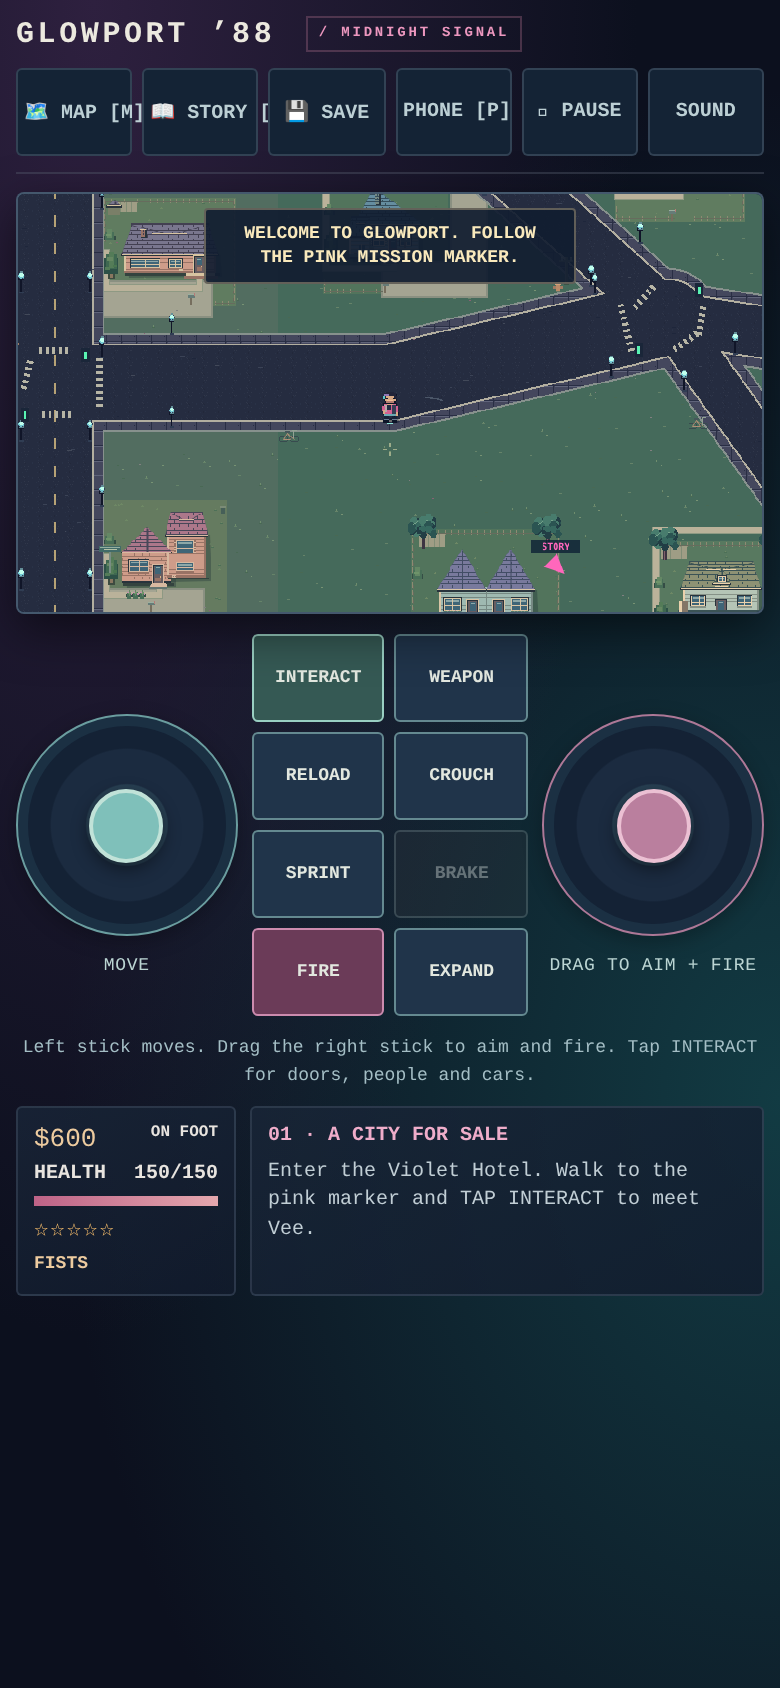
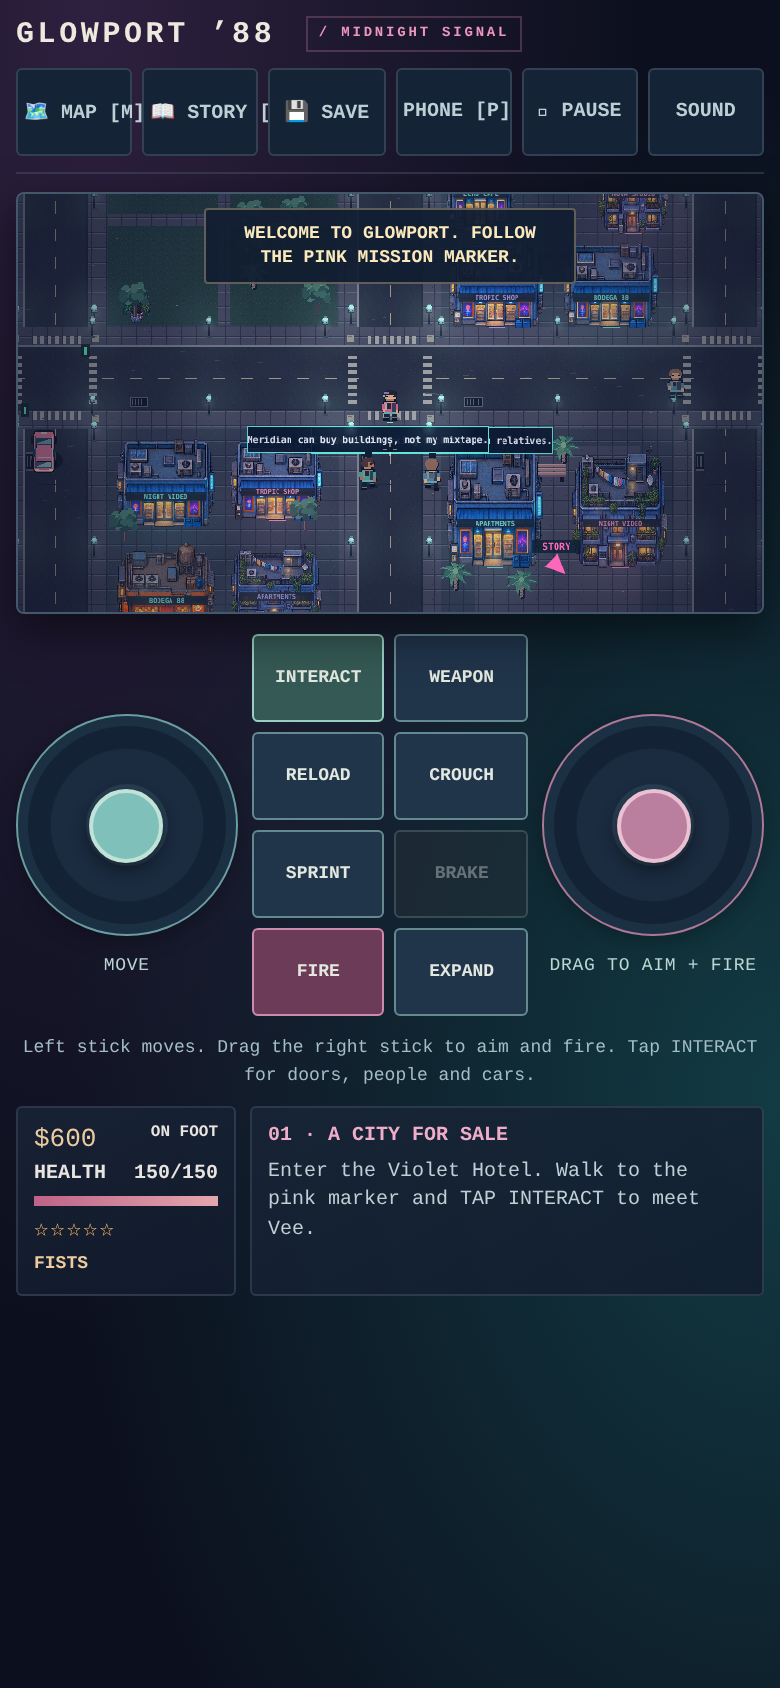
Record verified original-city browser deployment and final evidence

Changed region(s): [[0.0308, 0.0924, 0.9846, 0.3697]]

diff --git a/RESTORATION_REPORT.md b/RESTORATION_REPORT.md
@@ -32,9 +32,9 @@ These galleries let reviewers select the historical original and each subsequent
 
 | Reference | Original screenshot | Restored screenshot |
 | --- | --- | --- |
-| Downtown neon | [Original](artifacts/restoration-original-downtown-neon-night.png) | [Lighting-refined](artifacts/restoration-stage-d-downtown-neon-night.png) |
-| East Diner | [Original](artifacts/restoration-original-diner-day.png) | [Restored](artifacts/restoration-stage-d-diner-day.png) |
-| Sunset residential block | [Original night](artifacts/restoration-infill-original-west-3-7-night.png) | [Limited additions at night](artifacts/restoration-infill-stage-d-west-3-7-night.png) |
+| Downtown neon | [Original](artifacts/restoration-original-downtown-neon-night.png) | [Verified final](artifacts/restoration-final-downtown-neon-night.png) |
+| East Diner | [Original](artifacts/restoration-original-diner-day.png) | [Verified final](artifacts/restoration-final-diner-day.png) |
+| Sunset residential block | [Original night](artifacts/restoration-infill-original-west-3-7-night.png) | [Verified limited additions](artifacts/restoration-infill-final-west-3-7-night.png) |
 | Superseded suburban result | [0.6.0 Crescent Heights](artifacts/rebuild-after-crescent-day.png) | [Recovered original Crescent Heights](artifacts/restoration-stage-d-crescent-day.png) |
 
 ## Residential designs
@@ -96,6 +96,12 @@ Physical iPhone/Android, Safari and Firefox checks remain unexecuted. A continuo
 
 ## Playable delivery
 
-**Public deployment verification pending.** The intended updated demo URL is [Glowport ’88 · original city](https://atlasnoah.github.io/Glowport88/?v=0.6.1-original-city). Until verification is recorded, that address must not be described as the verified corrected release.
+**Published and verified:** [Play Glowport ’88 · restored original city](https://atlasnoah.github.io/Glowport88/?v=0.6.1-original-city). Use **Start / Continue** to resume existing progress.
 
-Final delivery will record the pushed source commit, Pages commit, exact standalone SHA-256 and public mobile playback results here. Public verification uses normal certificate-verified HTTPS and exact-byte equality with the tested standalone, then isolated browser playback of those deployed bytes. The source branch is `codex/restore-original-city`; `main` remains unchanged.
+- Tested release source: [`4bc54f4f79fc49318985fde045e49d9e73153e71`](https://github.com/atlasnoah/Glowport88/commit/4bc54f4f79fc49318985fde045e49d9e73153e71), pushed on `codex/restore-original-city`; `main` remains unchanged. Subsequent report/evidence commits do not change the game payload.
+- Pages deployment: [`c8383a38f8f2b86117003022b71823bd6810c3d3`](https://github.com/atlasnoah/Glowport88/commit/c8383a38f8f2b86117003022b71823bd6810c3d3). The live `build.json` identifies 0.6.1, original commit `c9b4af6`, 808 buildings, 35 roads, sixteen residential facades, schema 6 and map 3.
[1 lines of base64/hex data omitted]
+- **PASS** `node tests/public-demo.cjs`: normal certificate-verified HTTPS download matched the tested standalone byte for byte. Playback of those exact downloaded bytes in isolated 390×844 mobile Chromium passed Start, touch movement, phone/jobs, map, story entrance guidance and direct East Diner mission acceptance. Content remains 40 main / 20 side / 32 encounter types, ten vehicle models and twelve placed cassettes; no script errors.
+- **PASS** both [public city comparisons](https://atlasnoah.github.io/Glowport88/restoration/restoration-visual-comparison.html) and [public residential comparisons](https://atlasnoah.github.io/Glowport88/restoration/restoration-infill-comparison.html), plus six representative original/final PNG downloads, match tested local hashes. Local gallery browsers verified 184 PNG references, eighteen stage selections and 58 scene jumps across desktop/phone layouts, with no overflow or browser errors.
+
+The separate direct external Chromium probe is **environment-blocked** by `ERR_CERT_AUTHORITY_INVALID` in the cloud proxy trust setup. TLS checks were not disabled. The verified-HTTPS-download/exact-byte-playback checks above passed; direct public-origin Chromium navigation and physical handheld testing are not claimed. Evidence is in `artifacts/public-demo-results.json`, `restoration-public-build.json`, `restoration-public-gallery-results.json` and `restoration-public-direct-browser.json`.

diff --git a/TEST_RESULTS.md b/TEST_RESULTS.md
@@ -13,7 +13,7 @@ The current release selectively restores the actual `c9b4af6` Living City enviro
 | Original atmosphere regression | Twelve clear/rain/mist day/dusk/night RGBA scene comparisons; full night exactly original, daylight scalar changes bounded in the test fixture, host wash bounds and visible cyan/pink sources checked |
 | Historical visual restoration | Stage A: 21/21 static scenes exactly match original RGBA pixels; original world arrays, character/vehicle probe and four interiors exact |
 | Controlled refinement visuals | Stage B/C/D retain original geometry and sprite/interior hashes. Eight matched block scenes show no raw-terrain differences outside selected facade envelopes. Stage D preserves all four city and four block full-night scenes from Stage C. No browser errors; terrain ≤24MiB |
-| Gallery browser checks | Desktop 1440px/mobile 390px controls, image references and no-overflow checks pass without browser errors |
+| Gallery browser checks | Both galleries at desktop 1440px/mobile 390px: 184 PNG references, eighteen stage selections, 58 scene jumps, immutable originals, cross-links and no overflow/browser errors |
 
 Stage A/B/C/D screenshots and JSON evidence are in `artifacts/restoration-*`. The visual galleries use the same 800×450 camera, coordinates, weather, hour and frozen clock. Static comparisons intentionally exclude moving actors/UI; actual host screenshots and original sprite probes are captured separately.
 
@@ -22,6 +22,8 @@ Stage A/B/C/D screenshots and JSON evidence are in `artifacts/restoration-*`. Th
 **PASS:** the complete restored build's `npm test` exited 0. This includes syntax/content and mission/police/progression/save models; three accelerated campaign choice sweeps and 1,013 objectives; tiled-terrain seams; desktop gameplay; GPS; isolated touch controls; mobile play; all 14 East Diner checks; vehicle/city/encounter browser integration; three simulated days of bounded endurance; and all restoration suites. Final 21 city captures retain original geometry, sprite and interior hashes. Eight final residential day/night captures enforce the actual facade draw bounds and find zero changed raw-terrain pixels outside them. Four city and four block full-night scenes remain exact. No required check failed.
 
 **PASS:** `npm run release` and `npm run test:release`. The bundled HTML supports desktop and mobile Start, rendering, save/reload, map, phone, touch driving/movement and story entrance guidance with zero subresource requests. Production hides QA controls; debug saves are isolated and failed New Story backup writes preserve progress. Public delivery verification is recorded in the restoration report.
+
+**PASS:** `node tests/public-demo.cjs`. The published 0.6.1 HTTPS payload matches the tested standalone SHA-256 exactly. Isolated playback of those deployed bytes at 390×844 passes Start, touch movement, phone, map, story entrance arrows and direct East Diner mission acceptance without script errors. Both published comparison galleries and six original/final PNG samples also match local hashes. The separate direct external Chromium navigation probe is environment-blocked by `ERR_CERT_AUTHORITY_INVALID`; no TLS verification was bypassed. This limitation does not affect the passing certificate-verified download and exact-byte browser playback checks.
 
 The default `npm test` retains the prior browser/controller, mission/content, mobile, East Diner, encounter/vehicle/city host and endurance suites, then runs `npm run test:restoration`. The new restoration suites replace the obsolete 0.6.0 city-geometry expectations; historical rebuild tests remain available as source evidence but do not describe the current world.
 

diff --git a/DEVELOPMENT_LOG.md b/DEVELOPMENT_LOG.md
@@ -111,3 +111,4 @@
 - Stage D (`9153604`) reduced only daylight blue wash/ambient/halo strengths, keeping original night curves, color sources, weather, sprites and shadows. Focused original-renderer night pixels and all captured city/block full-night scenes remain exact.
 - Retained current mission acceptance/E/touch resolver, East Diner actions, next-story arrows, shared street GPS, events/vehicles/audio and original save key. Schema-six/map-three migration preserves v5 bytes and earlier backups, progress/receipts and vehicle state while repairing obsolete suburban positions/routes.
 - Complete `npm test` passed, including 1,013 accelerated campaign objectives, all 14 East Diner browser checks, mobile/GPS/host regression, three simulated days and every restoration suite. Final strict terrain comparisons find zero changed pixels outside the sixteen actual facade draw rectangles. Standalone release build/playback also passed. Verified delivery is recorded in RESTORATION_REPORT.md and TEST_RESULTS.md. Physical devices and continuous human campaign validation remain outstanding.
+- Pushed release source `4bc54f4` and published Pages `c8383a3`. Live build metadata and normal HTTPS downloads identify the restored 0.6.1 payload; its SHA-256 matches the tested standalone exactly. Downloaded-byte mobile playback and public comparison-gallery/image hashes pass. Direct external Chromium remains blocked by the cloud proxy trust setup; certificate validation was preserved.
